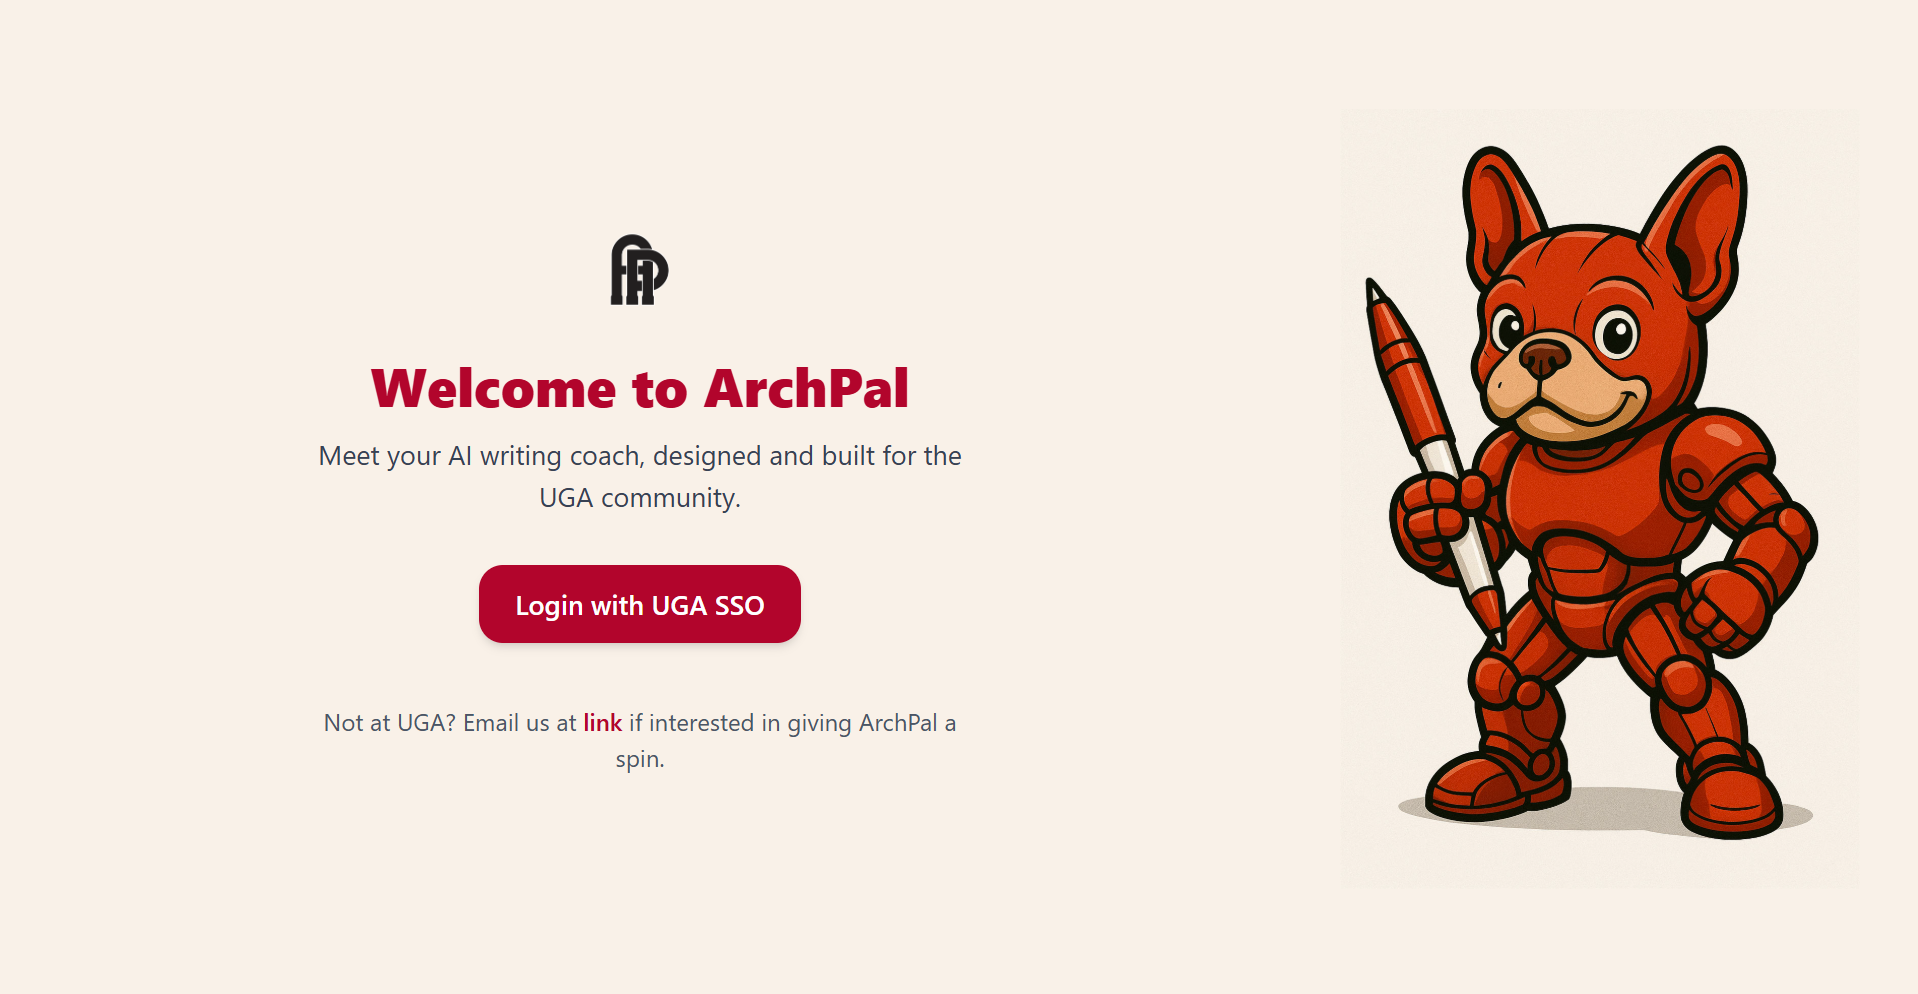
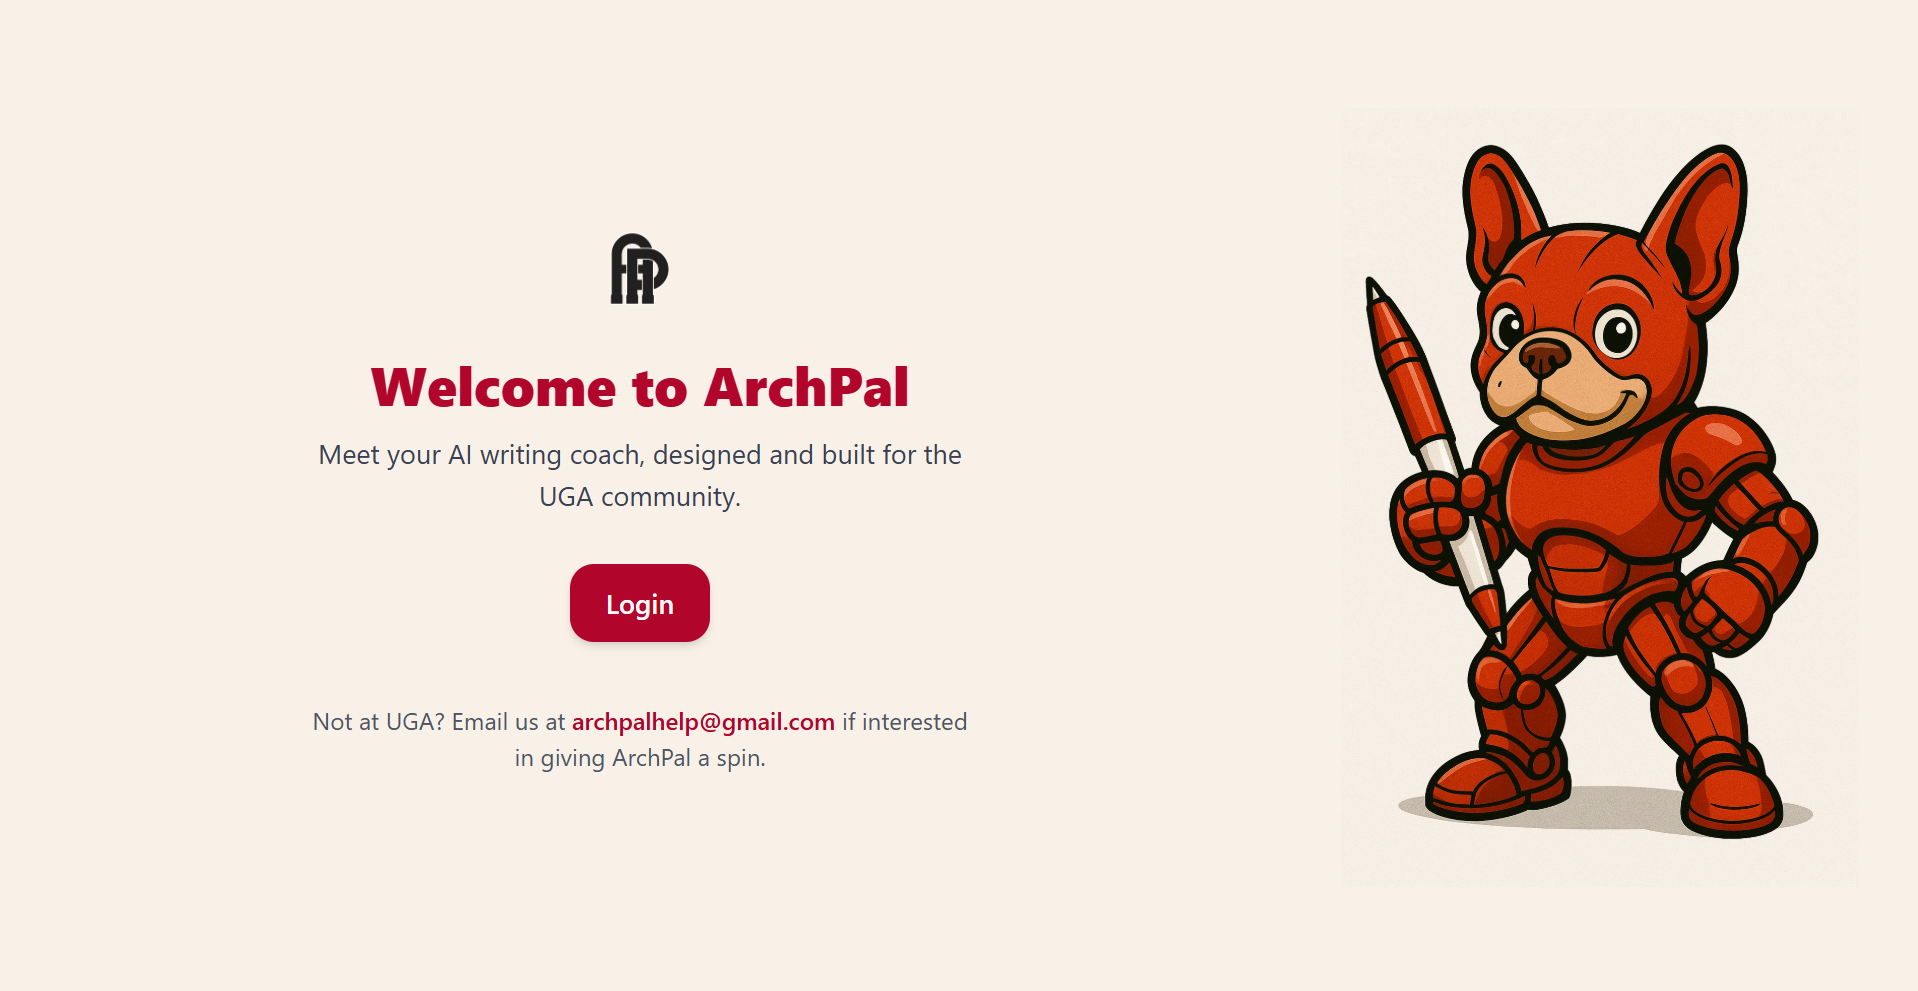
Updated landing, login and signup page

diff --git a/auth/core/templates/registration/signup.html b/auth/core/templates/registration/signup.html
@@ -6,85 +6,11 @@
   <title>Sign Up</title>
   <link href="{% static 'css/dist/styles.css' %}" rel="stylesheet">
 </head>
-<body class="min-h-screen w-full">
-<div class="flex flex-1 h-screen overflow-hidden w-full bg-gradient-to-br from-slate-50 to-yellow-100">-->
-
-  <!-- Left: Blended Signup Form -->
-  <!--<div class="flex flex-col justify-center items-center w-full md:w-2/5 px-8 py-10">
-    <div class="w-full max-w-md px-2 py-6">
-      <div class="mb-8">
-        <span class="font-semibold rounded-lg border border-gray-200 px-5 py-1 bg-white bg-opacity-70 text-gray-800 tracking-wide shadow-sm">Archpal</span>
-      </div>
-      <h2 class="text-3xl font-extrabold text-gray-900 mb-1 text-center">Create an account</h2>
-      
-      {% if error %}
-        <div class="alert alert-error text-center mb-3 bg-red-100 border border-red-400 text-red-700 px-4 py-3 rounded">
-          {{ error }}
-        </div>
-      {% endif %}
-      
-      {% if form.errors %}
-        <div class="alert alert-error text-center mb-3 bg-red-100 border border-red-400 text-red-700 px-4 py-3 rounded">
-          {% for field in form %}
-            {% for error in field.errors %}
-              <div>{{ field.label }}: {{ error }}</div>
-            {% endfor %}
-          {% endfor %}
-          {% for error in form.non_field_errors %}
-            <div>{{ error }}</div>
-          {% endfor %}
-        </div>
-      {% endif %}
-      
-      <form method="post" class="space-y-6">
-        {% csrf_token %}
-        <div>
-          <label class="block text-gray-700 text-base mb-2" for="id_username">Full name</label>
-          <input type="text" name="username" id="id_username" class="input w-full py-3 px-4 rounded-2xl text-lg shadow-none border border-gray-300 bg-white/70 focus:bg-white" required>
-        </div>
-        <div>
-          <label class="block text-gray-700 text-base mb-2" for="id_email">Email</label>
-          <input type="email" name="email" id="id_email" class="input w-full py-3 px-4 rounded-2xl text-lg shadow-none border border-gray-300 bg-white/70 focus:bg-white" required>
-        </div>
-        <div>
-          <label class="block text-gray-700 text-base mb-2" for="id_password1">Password</label>
-          <input type="password" name="password1" id="id_password1" class="input w-full py-3 px-4 rounded-2xl text-lg shadow-none border border-gray-300 bg-white/70 focus:bg-white" required>
-        </div>
-        <div>
-          <label class="block text-gray-700 text-base mb-2" for="id_password2">Confirm Password</label>
-          <input type="password" name="password2" id="id_password2" class="input w-full py-3 px-4 rounded-2xl text-lg shadow-none border border-gray-300 bg-white/70 focus:bg-white" required>
-        </div>
-        <button type="submit" class="btn w-full bg-gradient-to-r from-yellow-300 to-yellow-400 rounded-2xl border-none text-lg font-semibold mt-3 shadow-md transition hover:from-yellow-400 hover:to-yellow-500">Submit</button>
-      </form>
-      <p class="mt-7 text-gray-600 text-center text-base">Already have an account? <a href="{% url 'login' %}" class="text-black-500 underline">Login</a></p>
-    </div>
-  </div>-->
-
-  <!-- Right: Image, blended on yellow bg -->
-  <!--<div class="hidden md:flex flex-1 h-full items-center justify-center">
-    <div class="rounded-3xl overflow-hidden shadow-lg bg-white/30 w-[90%] h-[90%] flex items-center justify-center">
-      <img src="{% static 'core/Myers-Quad-OG.jpg' %}" alt="Signup visual"
-           class="object-cover w-full h-full"/>
-    </div>
-  </div>
-</div>
-</body>
-</html>-->
-
-
-{% load static %}
-<!DOCTYPE html>
-<html lang="en">
-<head>
-  <meta charset="UTF-8">
-  <title>Sign Up</title>
-  <link href="{% static 'css/dist/styles.css' %}" rel="stylesheet">
-</head>
 <body class="min-h-screen w-full bg-gradient-to-br from-black via-[#BA0C2F] to-white">
-<div class="flex flex-1 h-screen overflow-hidden w-full">
+<div class="flex flex-1 h-screen overflow-hidden w-full">-->
 
   <!-- Left: Blended Signup Form -->
-  <div class="flex flex-col justify-center items-center w-full md:w-2/5 px-8 py-10 bg-white bg-opacity-95">
+  <!--<div class="flex flex-col justify-center items-center w-full md:w-2/5 px-8 py-10 bg-white bg-opacity-95">
     <div class="w-full max-w-md px-2 py-6">
       <div class="mb-2 flex justify-center">
         <img src="{% static 'core/ArchPal-Mark-Prelim v01-2.png' %}" alt="ArchPal Logo" class="h-16 w-auto" />
@@ -132,10 +58,10 @@
       </form>
       <p class="mt-7 text-gray-900 text-center text-base">Already have an account? <a href="{% url 'login' %}" class="text-[#BA0C2F] underline">Login</a></p>
     </div>
-  </div>
+  </div>-->
 
   <!-- Right: Image, blended on UGA bg -->
-  <div class="hidden md:flex flex-1 h-full items-center justify-center bg-black">
+  <!--<div class="hidden md:flex flex-1 h-full items-center justify-center bg-black">
     <div class="rounded-3xl overflow-hidden shadow-lg border-2 border-[#BA0C2F]/60 bg-black w-[90%] h-[90%] flex items-center justify-center">
       <img src="{% static 'core/Myers-Quad-OG.jpg' %}" alt="Signup visual"
            class="object-cover w-full h-full"/>
@@ -143,5 +69,92 @@
   </div>
 </div>
 </body>
-</html>
+</html>-->
 
+{% load static %}
+<!DOCTYPE html>
+<html lang="en">
+<head>
+  <meta charset="UTF-8">
+  <title>Sign Up</title>
+  <meta name="viewport" content="width=device-width,initial-scale=1">
+  <link href="{% static 'css/dist/styles.css' %}" rel="stylesheet">
+</head>
+<body class="h-screen w-screen overflow-hidden bg-[#faf1e8]">
+  <div class="flex h-full w-full flex-col md:flex-row">
+
+    <!-- Left: Logo + Signup Form -->
+    <div class="flex items-center justify-center w-full md:w-2/3 px-6 md:px-12 overflow-y-auto py-8">
+      <div class="w-full max-w-md space-y-4">
+        <div class="flex justify-center">
+          <img src="{% static 'core/ArchPal-Mark-Prelim v01-2.png' %}" alt="ArchPal Logo" class="h-16 w-auto" />
+        </div>
+        
+        <div class="text-center space-y-2">
+          <h2 class="text-2xl md:text-3xl font-extrabold text-[#BA0C2F]">Create an account</h2>
+        </div>
+
+        <!-- Robo Dawg image - Mobile only -->
+        <div class="flex md:hidden items-center justify-center py-2">
+          <div class="w-full max-w-[200px] h-[180px] flex items-center justify-center">
+            <img src="{% static 'core/Robo-Dawg.jpg' %}" alt="ArchPal Robo Dawg"
+                 class="object-contain w-full h-full">
+          </div>
+        </div>
+
+        {% if error %}
+          <div class="text-center mb-3 bg-[#BA0C2F] border border-red-700 text-white px-4 py-3 rounded">
+            {{ error }}
+          </div>
+        {% endif %}
+        
+        {% if form.errors %}
+          <div class="text-center mb-3 bg-[#BA0C2F] border border-red-700 text-white px-4 py-3 rounded">
+            {% for field in form %}
+              {% for error in field.errors %}
+                <div>{{ field.label }}: {{ error }}</div>
+              {% endfor %}
+            {% endfor %}
+            {% for error in form.non_field_errors %}
+              <div>{{ error }}</div>
+            {% endfor %}
+          </div>
+        {% endif %}
+        
+        <form method="post" class="space-y-4">
+          {% csrf_token %}
+          <div>
+            <label class="block text-gray-900 text-base mb-1.5" for="id_username">Full name</label>
+            <input type="text" name="username" id="id_username" class="input w-full py-2.5 px-4 rounded-2xl text-base shadow-none border border-black bg-white focus:bg-[#f5f5f5]" required>
+          </div>
+          <div>
+            <label class="block text-gray-900 text-base mb-1.5" for="id_email">Email</label>
+            <input type="email" name="email" id="id_email" class="input w-full py-2.5 px-4 rounded-2xl text-base shadow-none border border-black bg-white focus:bg-[#f5f5f5]" required>
+          </div>
+          <div>
+            <label class="block text-gray-900 text-base mb-1.5" for="id_password1">Password</label>
+            <input type="password" name="password1" id="id_password1" class="input w-full py-2.5 px-4 rounded-2xl text-base shadow-none border border-black bg-white focus:bg-[#f5f5f5]" required>
+          </div>
+          <div>
+            <label class="block text-gray-900 text-base mb-1.5" for="id_password2">Confirm Password</label>
+            <input type="password" name="password2" id="id_password2" class="input w-full py-2.5 px-4 rounded-2xl text-base shadow-none border border-black bg-white focus:bg-[#f5f5f5]" required>
+          </div>
+          <button type="submit" class="btn w-full bg-[#BA0C2F] text-white rounded-2xl border-none text-base font-semibold py-2.5 shadow-md transition hover:bg-black">Submit</button>
+        </form>
+
+        <p class="text-center pt-2 text-gray-900 text-sm md:text-base">
+          Already have an account? <a href="{% url 'login' %}" class="text-[#BA0C2F] underline hover:underline font-semibold">Login</a>
+        </p>
+      </div>
+    </div>
+
+    <!-- Right: Robo Dawg image - Desktop only -->
+    <div class="hidden md:flex items-center justify-center w-full md:w-1/3 p-6 md:p-10">
+      <div class="w-full max-w-xl h-[500px] md:h-[600px] flex items-center justify-center">
+        <img src="{% static 'core/Robo-Dawg.jpg' %}" alt="ArchPal Robo Dawg"
+             class="object-contain w-full h-full">
+      </div>
+    </div>
+  </div>
+</body>
+</html>

diff --git a/auth/core/templates/registration/login.html b/auth/core/templates/registration/login.html
@@ -6,68 +6,11 @@
   <title>Login</title>
   <link href="{% static 'css/dist/styles.css' %}" rel="stylesheet">
 </head>
-<body class="min-h-screen w-full">
-  <div class="flex flex-1 h-screen overflow-hidden w-full bg-gradient-to-br from-slate-50 to-yellow-100">-->
-
-    <!-- Left: Blended Login Form -->
-    <!--<div class="flex flex-col justify-center items-center w-full md:w-2/5 px-8 py-10">
-      <div class="w-full max-w-md px-2 py-6">
-        <div class="mb-8">
-          <span class="font-semibold rounded-lg border border-gray-200 px-5 py-1 bg-white bg-opacity-70 text-gray-800 tracking-wide shadow-sm">Archpal</span>
-        </div>
-        <h2 class="text-3xl font-extrabold text-gray-900 mb-1 text-center">Sign In</h2>
-        <p class="text-center text-gray-500 text-base mb-8">Welcome back to Archpal</p>
-        {% if form.errors %}
-          <div class="alert alert-error text-center mb-3">
-            {% for field in form %}
-              {% for error in field.errors %}
-                <div>{{ error|escape }}</div>
-              {% endfor %}
-            {% endfor %}
-            {% for error in form.non_field_errors %}
-              <div>{{ error|escape }}</div>
-            {% endfor %}
-          </div>
-        {% endif %}
-        <form method="post" class="space-y-6">
-          {% csrf_token %}
-          <div>
-            <label class="block text-gray-700 text-base mb-2" for="id_username">Username</label>
-            <input type="text" name="username" id="id_username" class="input w-full py-3 px-4 rounded-2xl text-lg shadow-none border border-gray-300 bg-white/70 focus:bg-white" required>
-          </div>
-          <div>
-            <label class="block text-gray-700 text-base mb-2" for="id_password">Password</label>
-            <input type="password" name="password" id="id_password" class="input w-full py-3 px-4 rounded-2xl text-lg shadow-none border border-gray-300 bg-white/70 focus:bg-white" required>
-          </div>
-          <button type="submit" class="btn w-full bg-gradient-to-r from-yellow-300 to-yellow-400 rounded-2xl border-none text-lg font-semibold mt-3 shadow-md transition hover:from-yellow-400 hover:to-yellow-500">Login</button>
-        </form>
-        <p class="mt-7 text-gray-600 text-center text-base">Don't have an account? <a href="{% url 'signup' %}" class="text-black-500 underline">Sign up</a></p>
-      </div>
-    </div>-->
-
-    <!-- Right: Image, blended on yellow bg -->
-    <!--<div class="hidden md:flex flex-1 h-full items-center justify-center">
-      <div class="rounded-3xl overflow-hidden shadow-lg bg-white/30 w-[90%] h-[90%] flex items-center justify-center">
-        <img src="{% static 'core/Myers-Quad-OG.jpg' %}" alt="Login visual" class="object-cover w-full h-full"/>
-      </div>
-    </div>
-  </div>
-</body>
-</html>-->
-
-{% load static %}
-<!DOCTYPE html>
-<html lang="en">
-<head>
-  <meta charset="UTF-8">
-  <title>Login</title>
-  <link href="{% static 'css/dist/styles.css' %}" rel="stylesheet">
-</head>
 <body class="min-h-screen w-full bg-gradient-to-br from-black via-[#BA0C2F] to-white">
-  <div class="flex flex-1 h-screen overflow-hidden w-full">
+  <div class="flex flex-1 h-screen overflow-hidden w-full">-->
 
     <!-- Left: Blended Login Form -->
-    <div class="flex flex-col justify-center items-center w-full md:w-2/5 px-8 py-10 bg-white bg-opacity-95">
+    <!--<div class="flex flex-col justify-center items-center w-full md:w-2/5 px-8 py-10 bg-white bg-opacity-95">
       <div class="w-full max-w-md px-2 py-6">
         <div class="mb-8 flex justify-center">
           <img src="{% static 'core/ArchPal-Mark-Prelim v01-2.png' %}" alt="ArchPal Logo" class="h-16 w-auto" />
@@ -102,12 +45,87 @@
           Don't have an account? <a href="{% url 'signup' %}" class="text-[#BA0C2F] underline">Sign up</a>
         </p>
       </div>
-    </div>
+    </div>-->
 
     <!-- Right: Image, blended on UGA bg -->
-    <div class="hidden md:flex flex-1 h-full items-center justify-center bg-black">
+    <!--<div class="hidden md:flex flex-1 h-full items-center justify-center bg-black">
       <div class="rounded-3xl overflow-hidden shadow-lg bg-black border-2 border-[#BA0C2F]/60 w-[90%] h-[90%] flex items-center justify-center">
         <img src="{% static 'core/Myers-Quad-OG.jpg' %}" alt="Login visual" class="object-cover w-full h-full"/>
+      </div>
+    </div>
+  </div>
+</body>
+</html>-->
+
+{% load static %}
+<!DOCTYPE html>
+<html lang="en">
+<head>
+  <meta charset="UTF-8">
+  <title>Login</title>
+  <meta name="viewport" content="width=device-width,initial-scale=1">
+  <link href="{% static 'css/dist/styles.css' %}" rel="stylesheet">
+</head>
+<body class="h-screen w-screen overflow-hidden bg-[#faf1e8]">
+  <div class="flex h-full w-full flex-col md:flex-row">
+
+    <!-- Left: Logo + Login Form -->
+    <div class="flex items-center justify-center w-full md:w-2/3 px-6 md:px-12 overflow-y-auto">
+      <div class="w-full max-w-md space-y-6 py-8 md:py-0">
+        <div class="flex justify-center">
+          <img src="{% static 'core/ArchPal-Mark-Prelim v01-2.png' %}" alt="ArchPal Logo" class="h-16 w-auto" />
+        </div>
+        
+        <div class="text-center space-y-3">
+          <h2 class="text-2xl md:text-3xl font-extrabold text-[#BA0C2F]">Sign In</h2>
+          <p class="text-gray-700 text-base md:text-lg">Welcome back to ArchPal</p>
+        </div>
+
+        <!-- Robo Dawg image - Mobile only -->
+        <div class="flex md:hidden items-center justify-center py-4">
+          <div class="w-full max-w-xs h-[250px] flex items-center justify-center">
+            <img src="{% static 'core/Robo-Dawg.jpg' %}" alt="ArchPal Robo Dawg"
+                 class="object-contain w-full h-full">
+          </div>
+        </div>
+
+        {% if form.errors %}
+          <div class="alert alert-error text-center mb-3 bg-[#BA0C2F] border border-red-700 text-white px-4 py-3 rounded">
+            {% for field in form %}
+              {% for error in field.errors %}
+                <div>{{ field.label }}: {{ error|escape }}</div>
+              {% endfor %}
+            {% endfor %}
+            {% for error in form.non_field_errors %}
+              <div>{{ error|escape }}</div>
+            {% endfor %}
+          </div>
+        {% endif %}
+
+        <form method="post" class="space-y-6 pt-2">
+          {% csrf_token %}
+          <div>
+            <label class="block text-gray-900 text-base mb-1.5" for="id_username">Username</label>
+            <input type="text" name="username" id="id_username" class="input w-full py-2.5 px-4 rounded-2xl text-base shadow-none border border-black bg-white focus:bg-[#f5f5f5]" required>
+          </div>
+          <div>
+            <label class="block text-gray-900 text-base mb-1.5" for="id_password">Password</label>
+            <input type="password" name="password" id="id_password" class="input w-full py-2.5 px-4 rounded-2xl text-base shadow-none border border-black bg-white focus:bg-[#f5f5f5]" required>
+          </div>
+          <button type="submit" class="btn w-full bg-[#BA0C2F] text-white rounded-2xl border-none text-base font-semibold mt-3 shadow-md transition hover:bg-black">Login</button>
+        </form>
+
+        <p class="text-center pt-2 text-gray-900 text-sm md:text-base">
+          Don't have an account? <a href="{% url 'signup' %}" class="text-[#BA0C2F] underline hover:underline font-semibold">Sign up</a>
+        </p>
+      </div>
+    </div>
+
+    <!-- Right: Robo Dawg image - Desktop only -->
+    <div class="hidden md:flex items-center justify-center w-full md:w-1/3 p-6 md:p-10">
+      <div class="w-full max-w-xl h-[500px] md:h-[600px] flex items-center justify-center">
+        <img src="{% static 'core/Robo-Dawg.jpg' %}" alt="ArchPal Robo Dawg"
+             class="object-contain w-full h-full">
       </div>
     </div>
   </div>

diff --git a/auth/core/templates/core/landing.html b/auth/core/templates/core/landing.html
@@ -9,7 +9,7 @@
 </head>
 <body class="h-screen w-screen overflow-hidden bg-[#faf1e8]">
   <div class="flex h-full w-full flex-col md:flex-row">
-
+    
     <!-- Left: Logo + text + UGA SSO button -->
     <div class="flex items-center justify-center w-full md:w-2/3 px-6 md:px-12 overflow-y-auto">
       <div class="w-full max-w-md space-y-6 py-8 md:py-0">
@@ -36,12 +36,12 @@
           <a href="{% url 'login' %}"
              class="inline-flex items-center justify-center px-6 py-3 rounded-2xl text-base md:text-lg font-semibold
                     bg-[#BA0C2F] text-white shadow-md hover:bg-black transition">
-            Login with UGA SSO
+            Login
           </a>
         </div>
         <div class="text-center pt-4">
           <p class="text-gray-600 text-sm md:text-base">
-            Not at UGA? Email us at <a href="mailto:emailid" class="text-[#BA0C2F] hover:underline font-semibold">link</a> if interested in giving ArchPal a spin.
+            Not at UGA? Email us at <a href="mailto:archpalhelp@gmail.com" class="text-[#BA0C2F] hover:underline font-semibold">archpalhelp@gmail.com</a> if interested in giving ArchPal a spin.
           </p>
         </div>
       </div>
